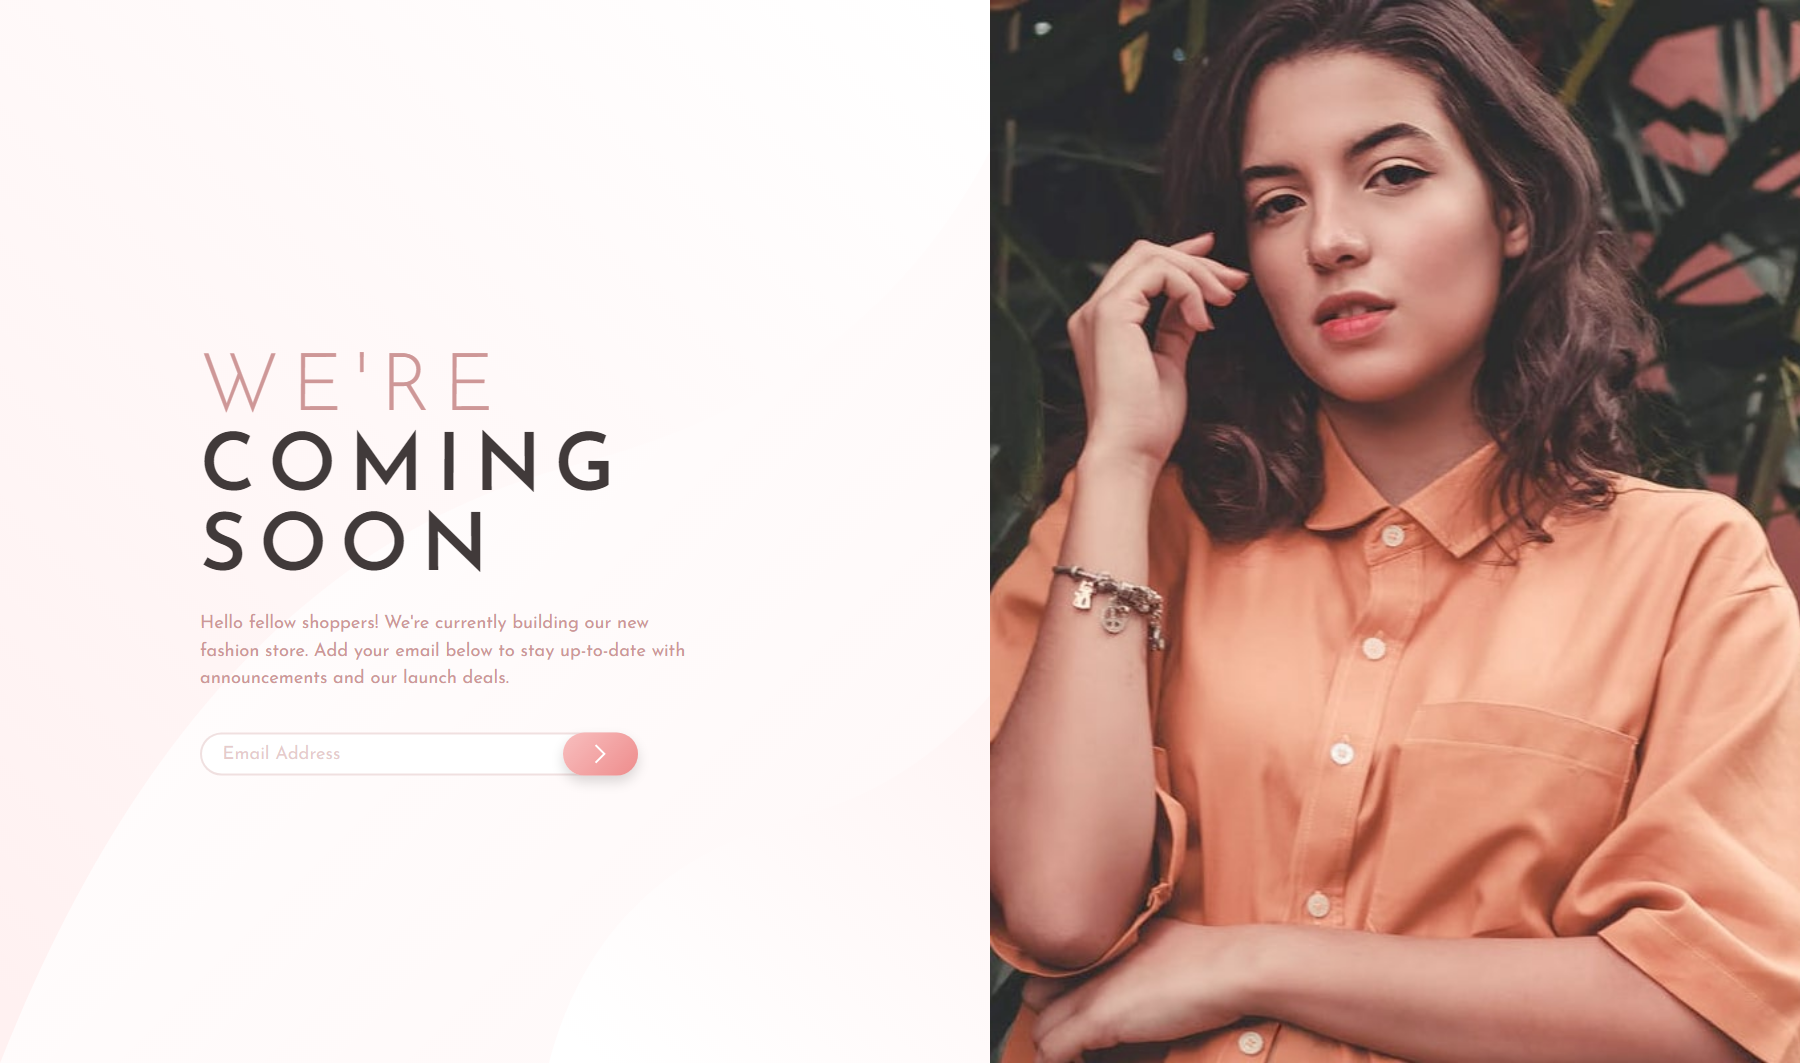
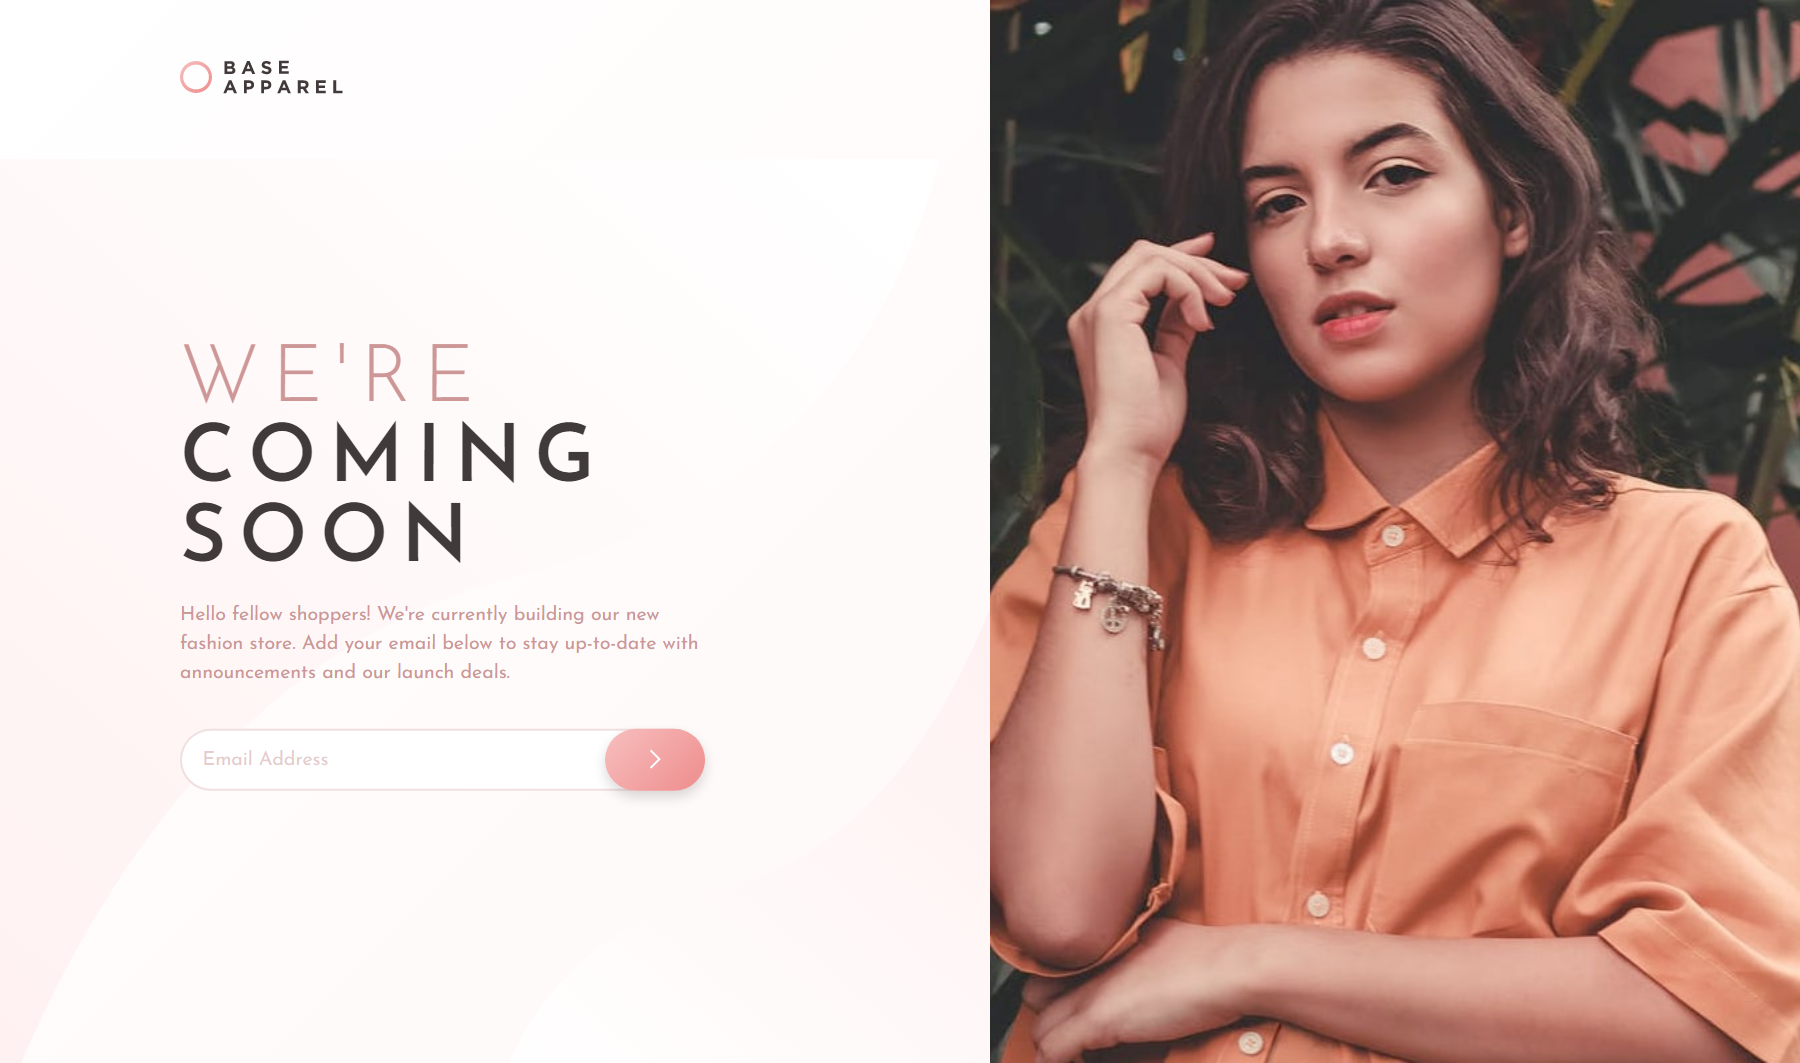
commit

diff --git a/css/style.css b/css/style.css
@@ -101,12 +101,12 @@ header .logo {
 }
 @media screen and (min-width: 60.5rem) {
   .hero__content {
-    max-width: 22.5rem;
+    max-width: 23.75rem;
   }
 }
 @media screen and (min-width: 75rem) {
   .hero__content {
-    max-width: 25rem;
+    max-width: 26.25rem;
   }
 }
 .hero__title {
@@ -141,21 +141,26 @@ header .logo {
 @media screen and (min-width: 60.5rem) {
   .hero__desc {
     margin: 1rem 0 2rem;
-    font-size: 0.8125em;
+    font-size: 0.875em;
     line-height: 1.5;
   }
 }
 @media screen and (min-width: 75rem) {
   .hero__desc {
-    font-size: 0.9125em;
+    font-size: 0.975em;
   }
 }
 
 .form {
   display: inline-flex;
   align-items: center;
-  width: clamp(250px, 90vw, 350px);
+  width: clamp(250px, 90vw, 380px);
   position: relative;
+}
+@media screen and (min-width: 75rem) {
+  .form {
+    width: clamp(250px, 90vw, 420px);
+  }
 }
 .form__input {
   flex: 1;
@@ -170,14 +175,14 @@ header .logo {
 }
 @media screen and (min-width: 60.5rem) {
   .form__input {
-    font-size: 0.8125em;
-    height: 2.1875rem;
+    font-size: 0.875em;
+    height: 2.8125rem;
   }
 }
 @media screen and (min-width: 75rem) {
   .form__input {
     height: 3.125rem;
-    font-size: 0.9125em;
+    font-size: 0.975em;
   }
 }
 .form__input:focus {
@@ -214,16 +219,16 @@ header .logo {
 }
 @media screen and (min-width: 60.5rem) {
   .form__btn {
-    width: 3.75rem;
-    height: 2.1875rem;
+    width: 4.6875rem;
+    height: 2.8125rem;
+    border-radius: 1.5625rem;
   }
 }
 @media screen and (min-width: 75rem) {
   .form__btn {
-    width: 4.6875rem;
+    width: 5rem;
     height: 3.125rem;
     font-size: 0.9125em;
-    border-radius: 1.5625rem;
   }
 }
 .form__btn--arrow {
@@ -240,9 +245,20 @@ header .logo {
   position: absolute;
   width: 1.25rem;
   height: 1.25rem;
-  top: 0.5rem;
+  top: 0.65rem;
   right: 4.5rem;
   display: none;
+}
+@media screen and (min-width: 60.5rem) {
+  .form__error-icon {
+    top: 0.8rem;
+    right: 5.5rem;
+  }
+}
+@media screen and (min-width: 75rem) {
+  .form__error-icon {
+    top: 0.9rem;
+  }
 }
 .form__error-msg {
   position: absolute;
@@ -254,7 +270,7 @@ header .logo {
 }
 @media screen and (min-width: 60.5rem) {
   .form__error-msg {
-    top: 2.7rem;
+    top: 3.5rem;
     font-size: 0.8125em;
   }
 }

diff --git a/scss/components/_hero.scss b/scss/components/_hero.scss
@@ -26,10 +26,10 @@
   &__content{
     
     @include lg-min{
-      max-width: rem(360);
+      max-width: rem(380);
     }
     @include xl-min{
-      max-width: rem(400);
+      max-width: rem(420);
     }
   }
 
@@ -62,11 +62,11 @@
 
     @include lg-min{
       margin: 1rem 0 2rem;
-      font-size: 0.8125em;
+      font-size: 0.875em;
       line-height: 1.5;
     }
     @include xl-min{
-      font-size: 0.9125em;
+      font-size: 0.975em;
     }
   }
 }
@@ -74,8 +74,12 @@
 .form{
   display: inline-flex;
   align-items: center;
-  width: clamp(250px, 90vw, 350px);
+  width: clamp(250px, 90vw, 380px);
   position: relative;
+
+  @include xl-min{
+    width: clamp(250px, 90vw, 420px);
+  }
 
   &__input{
     flex: 1;
@@ -89,12 +93,12 @@
     transition: 0.3s;
 
     @include lg-min{
-      font-size: 0.8125em;
-      height: rem(35);
+      font-size: 0.875em;
+      height: rem(45);
     }
     @include xl-min{
       height: rem(50);
-      font-size: 0.9125em;
+      font-size: 0.975em;
     }
 
     &:focus{
@@ -125,15 +129,15 @@
     box-shadow: 0 5px 10px rgba(0,0,0,0.15);
 
     @include lg-min{
-      width: rem(60);
-      height: rem(35);
+      width: rem(75);
+      height: rem(45);
+      border-radius: rem(25);
     }
 
     @include xl-min{
-      width: rem(75);
+      width: rem(80);
       height: rem(50);
       font-size: 0.9125em;
-      border-radius: rem(25);
     }
 
     &--arrow{
@@ -151,9 +155,17 @@
     position: absolute;
     width: rem(20);
     height: rem(20);
-    top: 0.5rem;
+    top: 0.65rem;
     right: 4.5rem;
     display: none;
+
+    @include lg-min{
+      top: 0.8rem;
+      right: 5.5rem;
+    }
+    @include xl-min{
+      top: 0.9rem;
+    }
   }
   &__error-msg{
     position: absolute;
@@ -164,7 +176,7 @@
     display: none;
 
     @include lg-min{
-      top: 2.7rem;
+      top: 3.5rem;
       font-size: 0.8125em;
     }
     @include xl-min{

diff --git a/README.md b/README.md
@@ -27,7 +27,7 @@ Users should be able to:
 
 ### Screenshot
 
-![](./screenshots/desktop-preview.png)
+![](./screenshots/mobile-preview.png)
 
 ### Links
 
